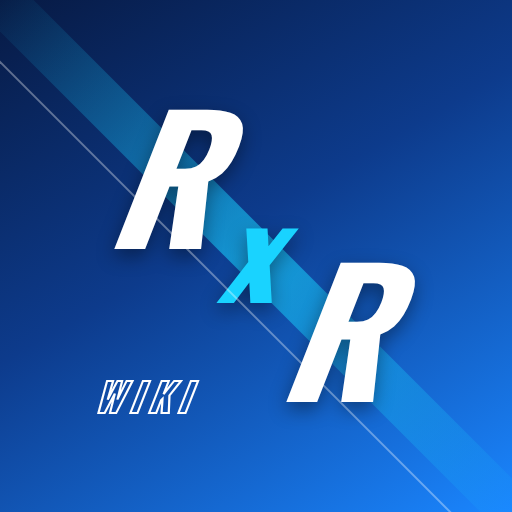
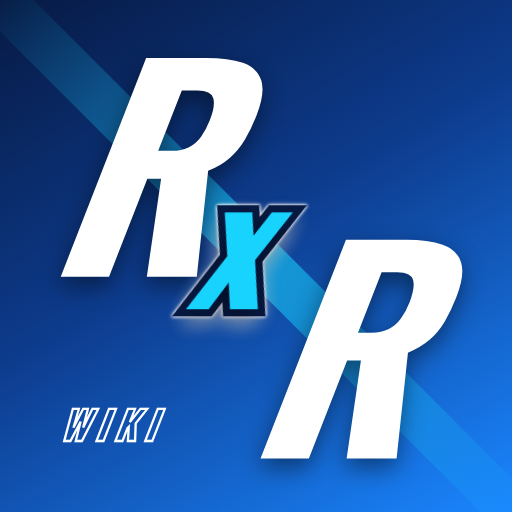
アプリアイコン：R を大きくし、x に縁取りを付けて見やすくする
Claude-Session: https://claude.ai/code/session_01N1eAzdvEhM9HvqUc1xMepk

diff --git a/images/app/icon-source.html b/images/app/icon-source.html
@@ -4,10 +4,10 @@
 html,body{margin:0;background:transparent}
 .ic{width:512px;height:512px;position:relative;overflow:hidden;background:linear-gradient(150deg,#071a44 0%,#0d3b8c 45%,#1a86ff 100%);font-family:Oswald,sans-serif}
 .ic::before{content:"";position:absolute;left:-120px;top:236px;width:760px;height:46px;background:linear-gradient(90deg,rgba(25,211,255,0),rgba(25,211,255,.6),rgba(25,211,255,0));transform:rotate(45deg)}
-.ic::after{content:"";position:absolute;left:-120px;top:236px;width:760px;height:2px;background:rgba(255,255,255,.35);transform:rotate(45deg) translateY(60px)}
-.l{position:absolute;color:#fff;font-weight:700;font-style:italic;line-height:1;transform:skewX(-8deg);text-shadow:0 8px 22px rgba(0,0,0,.4)}
-.r1{left:92px;top:58px;font-size:200px}
-.x{left:218px;top:168px;font-size:150px;color:#19d3ff}
-.r2{left:292px;top:236px;font-size:200px}
-.w{position:absolute;left:70px;top:384px;font-weight:700;font-size:46px;font-style:italic;letter-spacing:8px;color:transparent;-webkit-text-stroke:2.5px #fff;transform:skewX(-8deg)}
-</style></head><body><div class="ic" id="ic"><div class="g" style="position:absolute;inset:0;transform:scale(.86)"><div class="l r1">R</div><div class="l x">x</div><div class="l r2">R</div><div class="w">WIKI</div></div></div></body></html>
+.g{position:absolute;inset:0;transform:scale(.9)}
+.l{position:absolute;color:#fff;font-weight:700;font-style:italic;line-height:1;transform:skewX(-8deg);text-shadow:0 10px 26px rgba(0,0,0,.45)}
+.r1{left:40px;top:-6px;font-size:300px}
+.r2{left:262px;top:196px;font-size:300px}
+.x{left:188px;top:138px;font-size:186px;color:#19d3ff;-webkit-text-stroke:16px #071a44;paint-order:stroke fill;filter:drop-shadow(0 0 2px #fff) drop-shadow(0 0 2px #fff)}
+.w{position:absolute;left:40px;top:410px;font-weight:700;font-size:44px;font-style:italic;letter-spacing:8px;color:transparent;-webkit-text-stroke:2.5px #fff;transform:skewX(-8deg)}
+</style></head><body><div class="ic" id="ic"><div class="g"><div class="l r1">R</div><div class="l r2">R</div><div class="l x">x</div><div class="w">WIKI</div></div></div></body></html>
